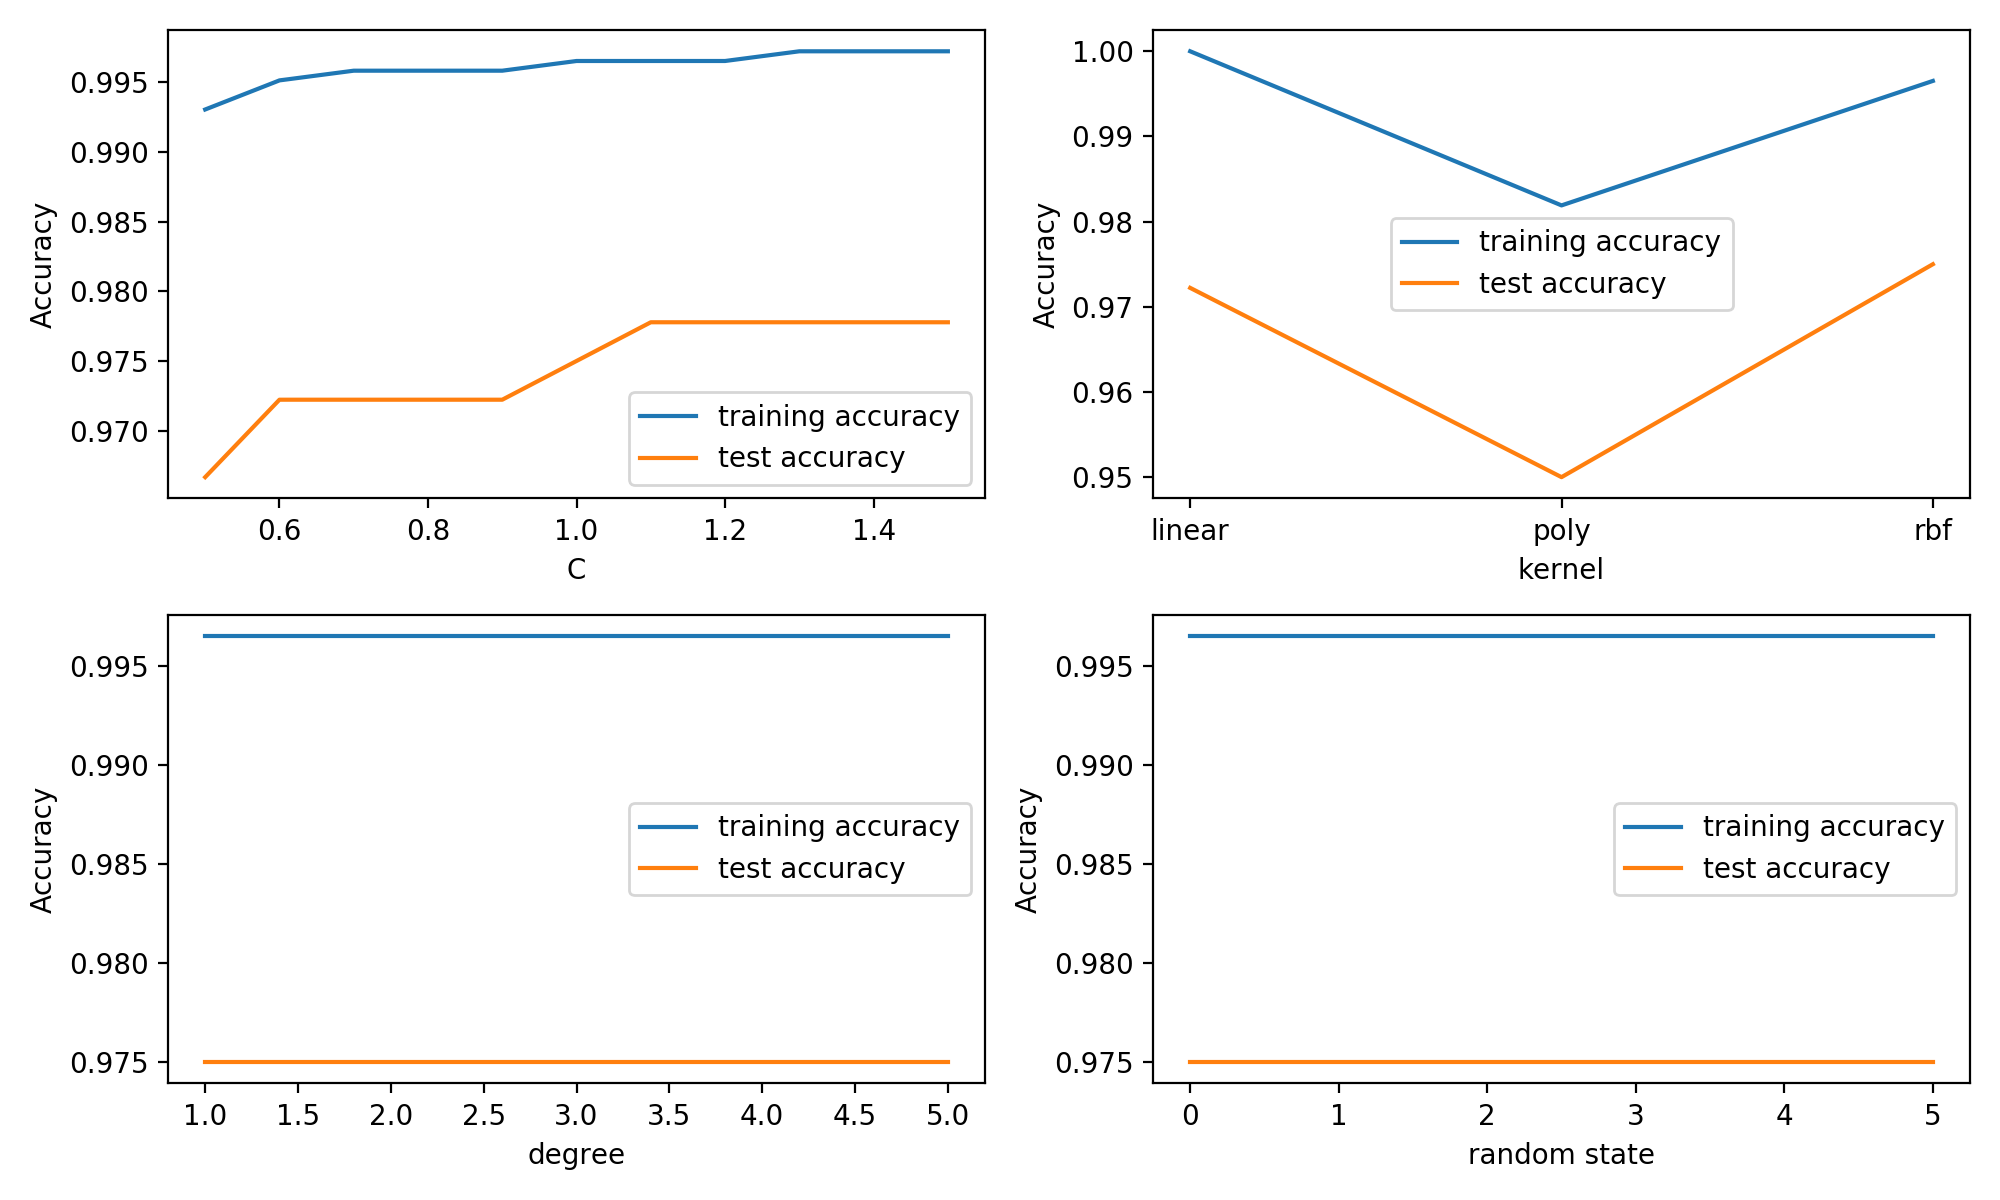
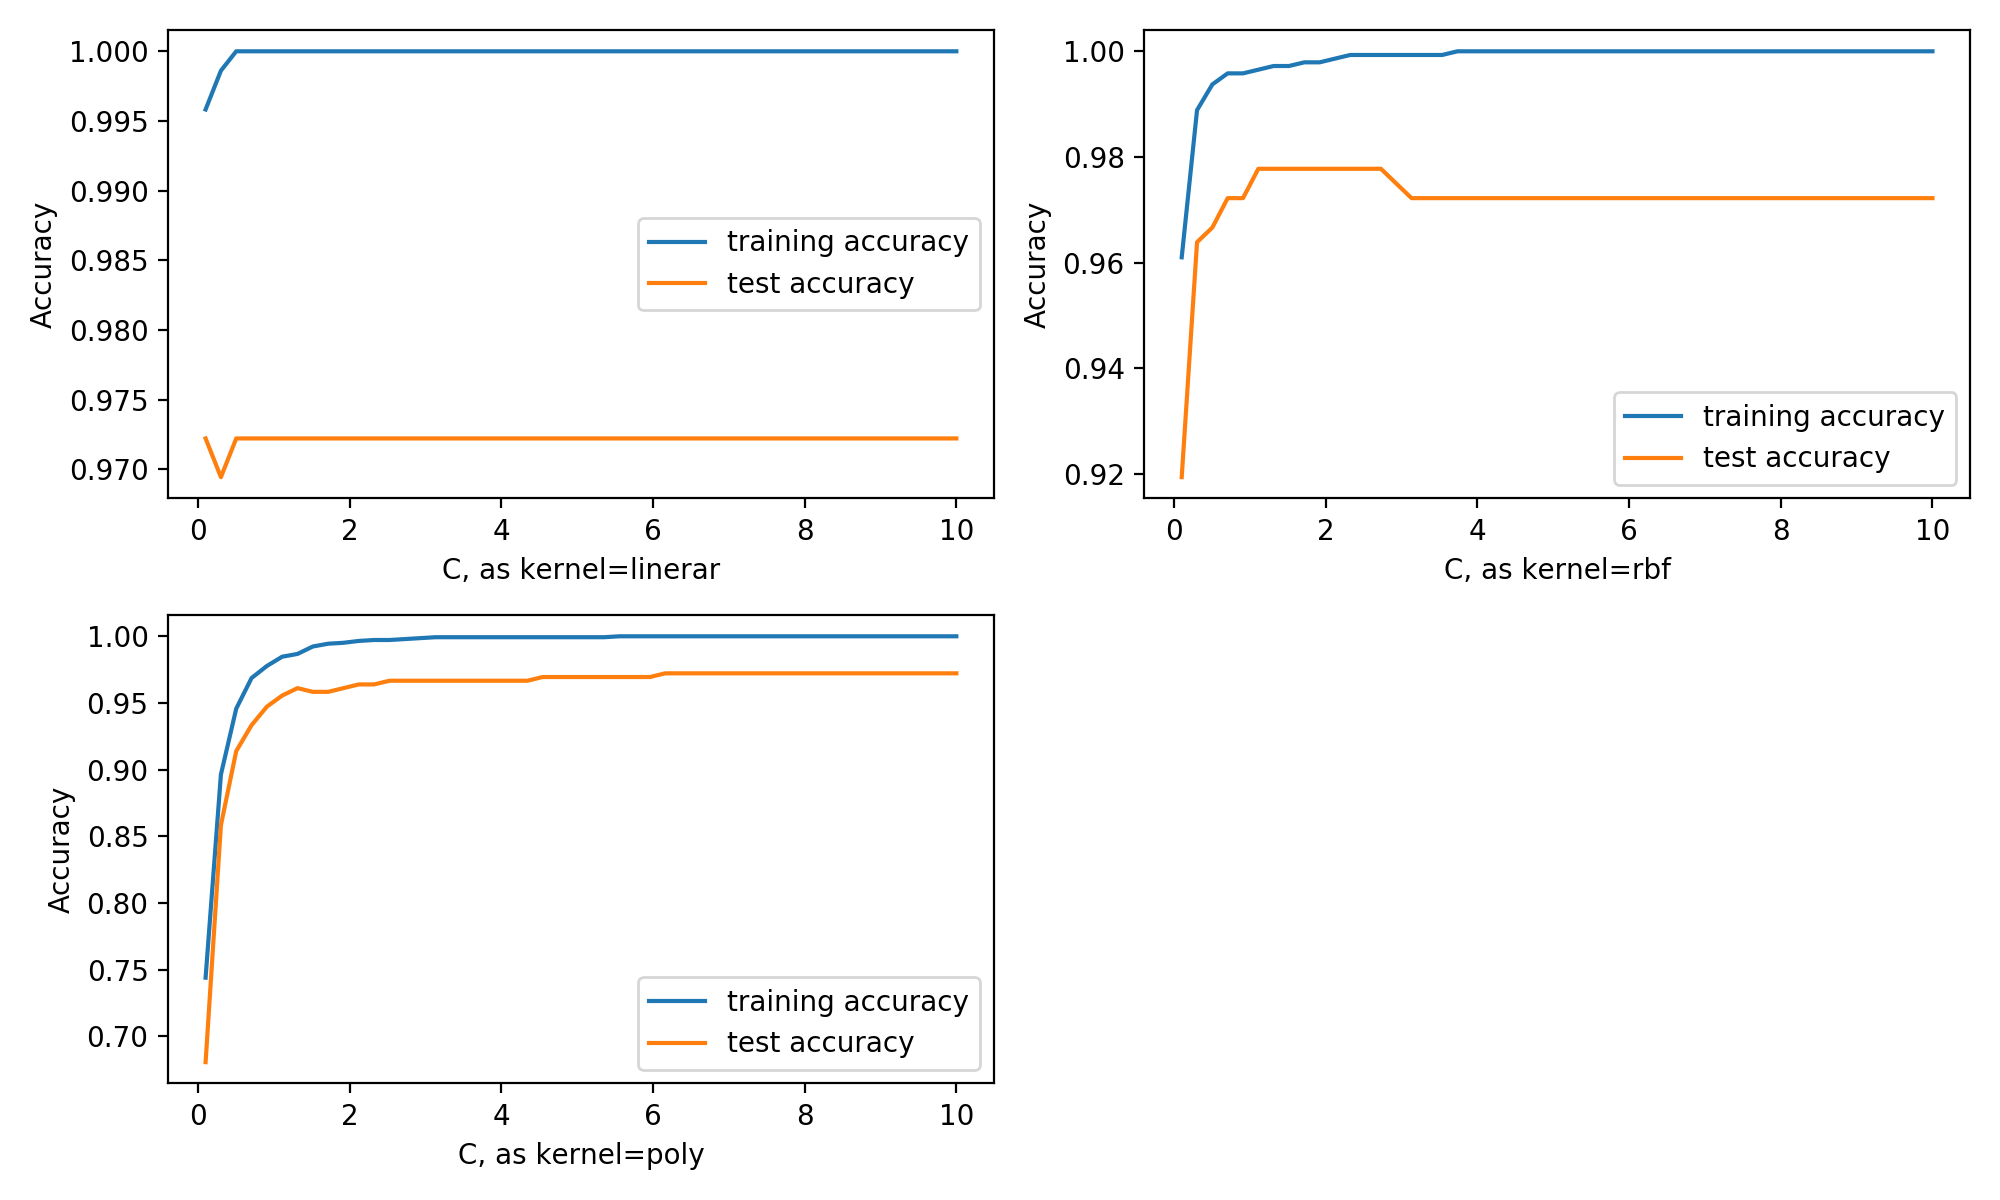
SVM调参数，SVM文档补充 19/03/2020

diff --git a/Week3/MultipleAlgorithms_WNR.py b/Week3/MultipleAlgorithms_WNR.py
@@ -5,6 +5,7 @@ from sklearn.preprocessing import StandardScaler
 from sklearn.neighbors import KNeighborsClassifier
 from sklearn.naive_bayes import MultinomialNB
 import matplotlib.pyplot as plt
+import numpy as np
 
 
 def knn_WRN_basics():
@@ -202,67 +203,59 @@ def svm_WNR_Advanced():
     transfer = StandardScaler()
     x_train = transfer.fit_transform(x_train)
     x_test = transfer.transform(x_test)
-    # 3) 分析不同的超参数的变化对SVM算法预测精度和泛化能力的影响
-    C_range = [0.5, 0.6, 0.7, 0.8, 0.9, 1.0, 1.1, 1.2, 1.3, 1.4, 1.5]
-    kernel_range = ['linear', 'poly', 'rbf']
-    degree_range = [1, 2, 3, 4, 5]
-    random_state_range = [None, 0, 1, 2, 3, 4, 5]
-    train_accuracy1, train_accuracy2, train_accuracy3, train_accuracy4 = [], [], [], []
-    test_accuracy1, test_accuracy2, test_accuracy3, test_accuracy4 = [], [], [], []
+    # 3) 分析不同的超参数组合的变化对SVM算法预测精度和泛化能力的影响
+    C_range = np.linspace(0.1, 10.0)
+    train_accuracy1, train_accuracy2, train_accuracy3 = [], [], []
+    test_accuracy1, test_accuracy2, test_accuracy3= [], [], []
 
-    # 3.1) C 超参数对SVM预测效果的影响
+    # 3.1.1) C 超参数在kernel 为linear时对SVM预测效果的影响
     for c in C_range:
-        estimator = SVC(gamma='scale', C=c)
+        estimator = SVC(kernel='linear', gamma='scale', C=c)
         estimator.fit(x_train, y_train)
         train_accuracy1.append(estimator.score(x_train, y_train))
         test_accuracy1.append(estimator.score(x_test, y_test))
-    # 3.2) kernel 超参数对SVM预测效果的影响
-    for k in kernel_range:
-        estimator = SVC(gamma='scale', kernel=k)
+    # 3.1.2) C 超参数在kernel 为rbf对SVM预测效果的影响
+    for c in C_range:
+        estimator = SVC(kernel='rbf', gamma='scale', C=c)
         estimator.fit(x_train, y_train)
         train_accuracy2.append(estimator.score(x_train, y_train))
         test_accuracy2.append(estimator.score(x_test, y_test))
-    # 3.3) degree 超参数对SVM预测效果的影响
-    for d in degree_range:
-        estimator = SVC(gamma='scale', degree=d)
+    # 3.1.3) C 超参数在kernel 为poly对SVM预测效果的影响
+    for c in C_range:
+        estimator = SVC(kernel='poly', gamma='scale', C=c)
         estimator.fit(x_train, y_train)
         train_accuracy3.append(estimator.score(x_train, y_train))
         test_accuracy3.append(estimator.score(x_test, y_test))
-    # 3.4) random_state 超参数对SVM预测效果的影响
-    for r in random_state_range:
-        estimator = SVC(gamma='scale', random_state=r)
-        estimator.fit(x_train, y_train)
-        train_accuracy4.append(estimator.score(x_train, y_train))
-        test_accuracy4.append(estimator.score(x_test, y_test))
 
-    # 5)  绘图
+    # 3.2) 找到三种组合情况下，对应的kernel和C的取值 及其各自最好的预测准确率
+    score1 = [C_range[test_accuracy1.index(max(test_accuracy1))], max(test_accuracy1)]
+    score2 = [C_range[test_accuracy2.index(max(test_accuracy2))], max(test_accuracy2)]
+    score3 = [C_range[test_accuracy3.index(max(test_accuracy3))], max(test_accuracy3)]
+    print('在kernel为linear，C参数为 %s 时，最高的测试预测准确率为 %s' % (score1[0], score1[1]))
+    print('在kernel为rbf，C参数为 %s 时，最高的测试预测准确率为 %s' % (score2[0], score2[1]))
+    print('在kernel为poly，C参数为 %s 时，最高的测试预测准确率为 %s' % (score3[0], score3[1]))
+
+    # 4)  绘图
     plt.figure(figsize=(10, 6))
     # 221 > 2行2列第1个
     plt.subplot(221)
     plt.plot(C_range, train_accuracy1, label='training accuracy')
     plt.plot(C_range, test_accuracy1, label='test accuracy')
-    plt.xlabel('C')
+    plt.xlabel('C, as kernel=linear')
     plt.ylabel('Accuracy')
     plt.legend()
     # 222 > 2行2列第2个
     plt.subplot(222)
-    plt.plot(kernel_range, train_accuracy2, label='training accuracy')
-    plt.plot(kernel_range, test_accuracy2, label='test accuracy')
-    plt.xlabel('kernel')
+    plt.plot(C_range, train_accuracy2, label='training accuracy')
+    plt.plot(C_range, test_accuracy2, label='test accuracy')
+    plt.xlabel('C, as kernel=rbf')
     plt.ylabel('Accuracy')
     plt.legend()
     # 223 > 2行2列第3个
     plt.subplot(223)
-    plt.plot(degree_range, train_accuracy3, label='training accuracy')
-    plt.plot(degree_range, test_accuracy3, label='test accuracy')
-    plt.xlabel('degree')
-    plt.ylabel('Accuracy')
-    plt.legend()
-    # 224 > 2行2列第4个
-    plt.subplot(224)
-    plt.plot(random_state_range, train_accuracy4, label='training accuracy')
-    plt.plot(random_state_range, test_accuracy4, label='test accuracy')
-    plt.xlabel('random state')
+    plt.plot(C_range, train_accuracy3, label='training accuracy')
+    plt.plot(C_range, test_accuracy3, label='test accuracy')
+    plt.xlabel('C, as kernel=poly')
     plt.ylabel('Accuracy')
     plt.legend()
 
@@ -277,5 +270,5 @@ if __name__ == '__main__':
     # svm_WNR_basic()
 
     # knn_WRN_Advanced()
-    naiveBayes_WNR_Advanced()
-    # svm_WNR_Advanced()
+    # naiveBayes_WNR_Advanced()
+    svm_WNR_Advanced()

diff --git a/Week3/ReadMe_SVM.md b/Week3/ReadMe_SVM.md
@@ -17,23 +17,27 @@
     1.3 SVM分类器工作原理：
         1.3.1 分类方法：是在这组分布中找出一个超平面作为决策边界，使模型在数据点的分类误差尽量接近与小，尤其是在未知数据集上的分类误差（泛化误差）尽量小。
         1.3.2 超平面：在几何中，超平面是空间的一个子空间，它是维度比所在空间小一维的空间。例：三维数据空间的超平面是二维平面；二维数据空间的超平面是一条直线。    
-        1.3.3 边际（margin）：决策边界B2可以平移的最远的0误差边界b11, b12，且B2到b11, b12的距离相等，则b11, b12之间的距离叫B2这条决策边界的边际，记为d
+        1.3.3 边际（margin）：决策边界B2可以平移的最远的0误差边界b11, b12，且B2到b11, b12的距离相等，则b11, b12之间的距离叫B2这条决策边界的边际，记为d，且 d = 2 / |||w||
         1.3.4 支持向量机就是通过找出边际最大的决策边界，来对数据进行分类的分类器。因此SVM分类器也叫做最大边际分类器。
 
-
-
-
-
-
-
-
-
-
-
-
-
-
-
+### 2. 重要参数总结
+    2.1 参数C：用于权衡 将'训练样本的正确分类'与决策函数的边际最大化的效力。C 与核函数的相关参数门搭配，是SVM调参的重点
+            错误项的惩罚系数。C越大，即对分错样本的惩罚程度越大，因此在训练样本中准确率越高，但是泛化能力降低，也就是对测试数据的分类准确率降低。
+            相反，减小C的话，容许训练样本中有一些误分类错误样本，泛化能力强。对于训练样本带有噪声的情况，一般采用后者，把训练样本集中错误分类的样本作为噪声。
+    2.2 参数kernel: 在定义距离，大于该距离，判为正，小于该距离，判为负。至于选择哪一种核函数，要根据具体的样本分布情况来确定。
+            'linear'：线性内核函数
+             'rbf'：非线性超平面，RBF核：高斯核函数就是在属性空间中找到一些点，这些点可以是也可以不是样本点，把这些点当做base，以这些base为圆心向外扩展，扩展半径即为带宽，即可划分数据。换句话说，在属性空间中找到一些超圆，用这些超圆来判定正反类。
+             'poly'：非线性超平面，多项式核，    
+    
+### 3. SVM算法的优缺点
+    3.1 优点：它工作的效果很明显，有很好的分类作用。
+             它在高维空间中同样是有效的。它在尺寸数量大于样本数量的情况下，也是有效的。
+             它在决策函数（称为支持向量）中使用训练点的子集，因此它的内存也是有效的
+    
+    3.2 缺点：拥有大量的数据集时，它表现并不好，因为它所需要的训练时间更长。
+             当数据集具有很多噪声，也就是目标类重叠时，它的表现性能也不是很好。
+             SVM不直接提供概率估计，这些是使用昂贵的五重交叉验证来计算的。它是Python scikit-learn库的相关SVC方法。
+    
 ### 参考资源
     1。Python & Sklearn 支持向量机SVM理论与实例（基础）：https://www.bilibili.com/video/av83421273?from=search&seid=4057550861803476280
     2。Python & Sklearn 支持向量机SVM理论与实例（进阶）：https://www.bilibili.com/video/av83430516/?p=1
